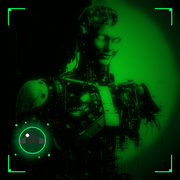
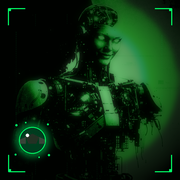
Splash : freeze apocalyptique (ERROR rouge, bandes noires, anomaly warning) + ondulations Galactik + icone vert plus clair avec lueur yeux

diff --git a/styles/matrix.css b/styles/matrix.css
@@ -672,6 +672,138 @@ body {
   .splash-scene { display: none; }
 }
 
+/* ════════════════════════════════════════════════════════════════
+   FREEZE APOCALYPTIQUE + GALACTIK ENERGY (effets premium)
+   ════════════════════════════════════════════════════════════════ */
+
+/* ── Ondulations Galactik-style (cercles d'énergie qui se propagent) ── */
+.splash-pulse-ring {
+  position: absolute;
+  top: 42%; left: 50%;
+  width: 80px; height: 80px;
+  border: 2px solid var(--mx-green-bright);
+  border-radius: 50%;
+  transform: translate(-50%, -50%);
+  pointer-events: none;
+  z-index: 1;
+  opacity: 0;
+  box-shadow: 0 0 30px rgba(0, 255, 102, 0.5),
+              inset 0 0 30px rgba(0, 255, 102, 0.3);
+  animation: galactik-pulse 2.4s infinite cubic-bezier(.2, .6, .4, 1);
+}
+.splash-pulse-ring.ring-delay-1 { animation-delay: 0.8s; border-color: var(--mx-green-pastel); }
+.splash-pulse-ring.ring-delay-2 { animation-delay: 1.6s; }
+
+@keyframes galactik-pulse {
+  0% {
+    width: 60px; height: 60px;
+    opacity: 0.95;
+    border-width: 3px;
+  }
+  40% {
+    opacity: 0.7;
+  }
+  100% {
+    width: 700px; height: 700px;
+    opacity: 0;
+    border-width: 0.5px;
+  }
+}
+
+/* ── Bandes noires de freeze apocalyptique (déchirure écran) ── */
+.apocalypse-bands {
+  position: absolute;
+  inset: 0;
+  pointer-events: none;
+  z-index: 7;
+  opacity: 0;
+  background:
+    linear-gradient(to bottom,
+      transparent 0,         transparent 22%,
+      #000 22%,              #000 25%,
+      transparent 25%,       transparent 58%,
+      #000 58%,              #000 60%,
+      transparent 60%,       transparent 81%,
+      #000 81%,              #000 83%,
+      transparent 83%
+    );
+  animation: apocalypse-tear 5s infinite;
+}
+@keyframes apocalypse-tear {
+  0%, 38%, 40.2%, 71%, 73%, 100%   { opacity: 0; }
+  39%                              { opacity: 0.95; transform: translateX(0); }
+  39.4%                            { opacity: 0.6; transform: translateX(-8px); }
+  39.8%                            { opacity: 0.9; transform: translateX(4px); }
+  40%                              { opacity: 0; transform: none; }
+  72%                              { opacity: 0.7; transform: translateX(0); }
+  72.5%                            { opacity: 0.4; transform: translateX(6px); }
+}
+
+/* ── Flash "SYSTEM CORRUPTED" rouge ── */
+.splash-error {
+  position: absolute;
+  top: 28%; left: 50%;
+  transform: translateX(-50%);
+  color: #FF1B1B;
+  font-family: var(--mx-mono);
+  font-size: 0.9rem;
+  font-weight: 700;
+  letter-spacing: 0.3em;
+  text-shadow: 0 0 12px rgba(255, 27, 27, 0.9), 0 0 24px rgba(255, 27, 27, 0.4);
+  opacity: 0;
+  pointer-events: none;
+  z-index: 8;
+  white-space: nowrap;
+  animation: error-flash 5s infinite;
+}
+@keyframes error-flash {
+  0%, 38.5%, 100%        { opacity: 0; }
+  39%                    { opacity: 1; transform: translateX(-50%) translateY(0); }
+  39.3%                  { opacity: 0; }
+  39.6%                  { opacity: 1; transform: translateX(-48%) translateY(-2px); }
+  39.9%                  { opacity: 0; }
+  40%                    { opacity: 0.5; }
+  40.3%                  { opacity: 0; }
+}
+
+/* ── Flash "ANOMALY DETECTED" orange ── */
+.splash-warning {
+  position: absolute;
+  bottom: 24%; left: 50%;
+  transform: translateX(-50%);
+  color: var(--mx-orange);
+  font-family: var(--mx-mono);
+  font-size: 0.75rem;
+  font-weight: 700;
+  letter-spacing: 0.2em;
+  text-shadow: 0 0 8px rgba(255, 192, 0, 0.8);
+  opacity: 0;
+  pointer-events: none;
+  z-index: 8;
+  white-space: nowrap;
+  animation: warning-flash 5s infinite;
+}
+@keyframes warning-flash {
+  0%, 71%, 73.5%, 100%   { opacity: 0; }
+  72%                    { opacity: 1; }
+  72.5%                  { opacity: 0; }
+  73%                    { opacity: 0.8; transform: translateX(-49%); }
+}
+
+/* ── Saccade globale (stutter) sur le content ── */
+.splash-content {
+  animation: content-stutter 5s infinite;
+}
+@keyframes content-stutter {
+  0%, 38.5%, 41%, 71%, 74%, 100%   { transform: none; filter: none; }
+  39%                              { transform: translateX(-4px) translateY(2px); filter: invert(0.08) contrast(1.4); }
+  39.5%                            { transform: translateX(3px); filter: hue-rotate(15deg); }
+  40%                              { transform: translateY(-3px); filter: brightness(1.4); }
+  40.5%                            { transform: none; filter: none; }
+  72%                              { transform: translateX(2px) skewY(0.4deg); filter: contrast(1.3); }
+  73%                              { transform: translateX(-3px); filter: brightness(1.2); }
+}
+
 /* ─── DESKTOP RESPONSIVE ─── */
 @media (min-width: 720px) {
   body {

diff --git a/index.html b/index.html
@@ -18,9 +18,19 @@
 </head>
 <body x-data="app()" x-init="init()">
 
-  <!-- ─── SPLASH SCREEN (style MATRIX) ─── -->
+  <!-- ─── SPLASH SCREEN (style MATRIX + Galactik vibes + freeze apocalyptique) ─── -->
   <div id="splash" class="splash" :class="{ 'splash-fade': splashFading }" x-show="showSplash" x-cloak>
     <canvas id="matrix-rain"></canvas>
+    <!-- Ondulations énergétiques Galactik-style (pulse rings) -->
+    <div class="splash-pulse-ring"></div>
+    <div class="splash-pulse-ring ring-delay-1"></div>
+    <div class="splash-pulse-ring ring-delay-2"></div>
+    <!-- Bandes de freeze apocalyptique -->
+    <div class="apocalypse-bands"></div>
+    <!-- Flash ERROR rouge (système corrompu) -->
+    <div class="splash-error">! SYSTEM CORRUPTED !</div>
+    <!-- Flash WARNING orange -->
+    <div class="splash-warning">⚠ ANOMALY DETECTED</div>
     <div class="splash-content">
       <div class="splash-logo">
         <span class="splash-brand">

diff --git a/icons/generate_icons.py b/icons/generate_icons.py
@@ -44,39 +44,89 @@ def _crop_square(img: Image.Image) -> Image.Image:
 
 
 def _matrix_silhouette(img: Image.Image) -> Image.Image:
-    """Transforme l'image en silhouette MATRIX : fond noir absolu, robot vert détaillé.
+    """Transforme l'image en silhouette MATRIX : fond noir absolu, robot vert vif.
 
-    Approche : détection RGB directe. Le robot métallique est NEUTRE (R≈G≈B), le fond
-    rouge a R >> G,B et le fond bleu a B >> R,G. On masque par déséquilibre RGB.
+    Mapping vert PLUS CLAIR pour augmenter le contraste :
+      - Niveau 0-22 : noir
+      - Niveau 22-100 : vert sombre (50→130)
+      - Niveau 100-180 : vert moyen (130→220)
+      - Niveau 180-255 : vert très clair (220→255) — détails métalliques nets
     """
     rgb = img.convert("RGB")
     hsv = rgb.convert("HSV")
     _, _, v_ch = hsv.split()
-    v_enh = ImageEnhance.Contrast(v_ch).enhance(1.6)
+    v_enh = ImageEnhance.Contrast(v_ch).enhance(1.7)
 
     rgb_pixels = list(rgb.getdata())
     v_pixels = list(v_enh.getdata())
     out_pixels = []
     for (r, g, b), v in zip(rgb_pixels, v_pixels):
-        # Détection fond rouge : R domine clairement sur G et B
+        # Fonds rouge et bleu → noir
         is_red_bg = r > 70 and (r - g) > 25 and (r - b) > 25
-        # Détection fond bleu : B domine clairement sur R et G
         is_blue_bg = b > 70 and (b - r) > 25 and (b - g) > 25
         if is_red_bg or is_blue_bg:
             out_pixels.append((0, 7, 0))
         else:
-            # Pixel neutre/robot : remap luminance vers vert MATRIX
             if v < 22:
                 out_pixels.append((0, 7, 0))
+            elif v < 100:
+                # Tons sombres : vert sombre à moyen
+                t = (v - 22) / 78.0
+                gr = int(50 + t * 80)
+                out_pixels.append((int(gr * 0.08), gr, int(gr * 0.22)))
+            elif v < 180:
+                # Tons moyens : vert moyen à clair (le plus de contraste ici)
+                t = (v - 100) / 80.0
+                gr = int(130 + t * 90)
+                out_pixels.append((int(gr * 0.10), gr, int(gr * 0.25)))
             else:
-                t = min(1.0, (v - 22) / 230.0) ** 0.72
-                gr = int(40 + t * 215)
-                rd = int(t * 18)
-                bl = int(t * 50)
+                # Hautes lumières : vert très clair (yeux + reflets badass)
+                t = (v - 180) / 75.0
+                gr = int(220 + t * 35)
+                # Touche de blanc pour faire ressortir les reflets
+                rd = int(60 + t * 80)
+                bl = int(90 + t * 60)
                 out_pixels.append((min(255, rd), min(255, gr), min(255, bl)))
 
     out = Image.new("RGB", img.size)
     out.putdata(out_pixels)
+    return out
+
+
+def _enhance_eyes(img: Image.Image) -> Image.Image:
+    """Détecte les pixels TRÈS clairs (yeux + LEDs) et ajoute un halo lumineux."""
+    rgb = img.convert("RGB")
+    w, h = rgb.size
+    # Masque des "yeux" : pixels où R+G+B > 700 (très lumineux après mapping vert)
+    bright_mask = Image.new("L", (w, h), 0)
+    bm = bright_mask.load()
+    px = rgb.load()
+    for y in range(int(h * 0.15), int(h * 0.45)):  # zone haute = visage probable
+        for x in range(w):
+            r, g, b = px[x, y]
+            if (r + g + b) > 600 and g > 200:
+                bm[x, y] = 255
+
+    # Halo en floutant ce masque
+    glow_layer = Image.new("RGBA", (w, h), (0, 0, 0, 0))
+    gd = ImageDraw.Draw(glow_layer)
+    # On dessine des cercles lumineux verts là où le masque est blanc
+    bright_data = list(bright_mask.getdata())
+    points = [(i % w, i // w) for i, v in enumerate(bright_data) if v > 0]
+    # Sample pour éviter trop de points (cluster autour des yeux)
+    if points:
+        # Grouper points proches (simple : on prend des centres-de-masse approximés)
+        # Approche simple : on dessine un petit cercle clair sur tous les points → flou ensuite
+        for (x, y) in points:
+            gd.ellipse([x - 2, y - 2, x + 2, y + 2], fill=(140, 255, 180, 180))
+
+    glow_blurred = glow_layer.filter(ImageFilter.GaussianBlur(radius=8))
+    glow_strong = glow_layer.filter(ImageFilter.GaussianBlur(radius=18))
+    # Composer en lighten
+    out = img.convert("RGBA")
+    out = Image.alpha_composite(out, glow_strong)
+    out = Image.alpha_composite(out, glow_blurred)
+    out = Image.alpha_composite(out, glow_layer)
     return out
 
 
@@ -221,9 +271,12 @@ def build_master() -> Image.Image:
     print("[5/6] Vignetting pour noir-iser les bords résiduels")
     silhouette = _apply_vignette(silhouette, strength=0.92)
 
-    print("[6/6] Glow + cadre HUD + pluie Matrix + ballon")
+    print("[6/7] Glow général")
     glowed = _add_glow_layer(silhouette)
-    img = glowed.convert("RGBA")
+
+    print("[7/7] Lueur yeux badass + cadre HUD + pluie + ballon")
+    eyes_boosted = _enhance_eyes(glowed)
+    img = eyes_boosted if eyes_boosted.mode == "RGBA" else eyes_boosted.convert("RGBA")
     _add_matrix_rain(img)
     _draw_hud_frame(img)
     _draw_ball(img)
